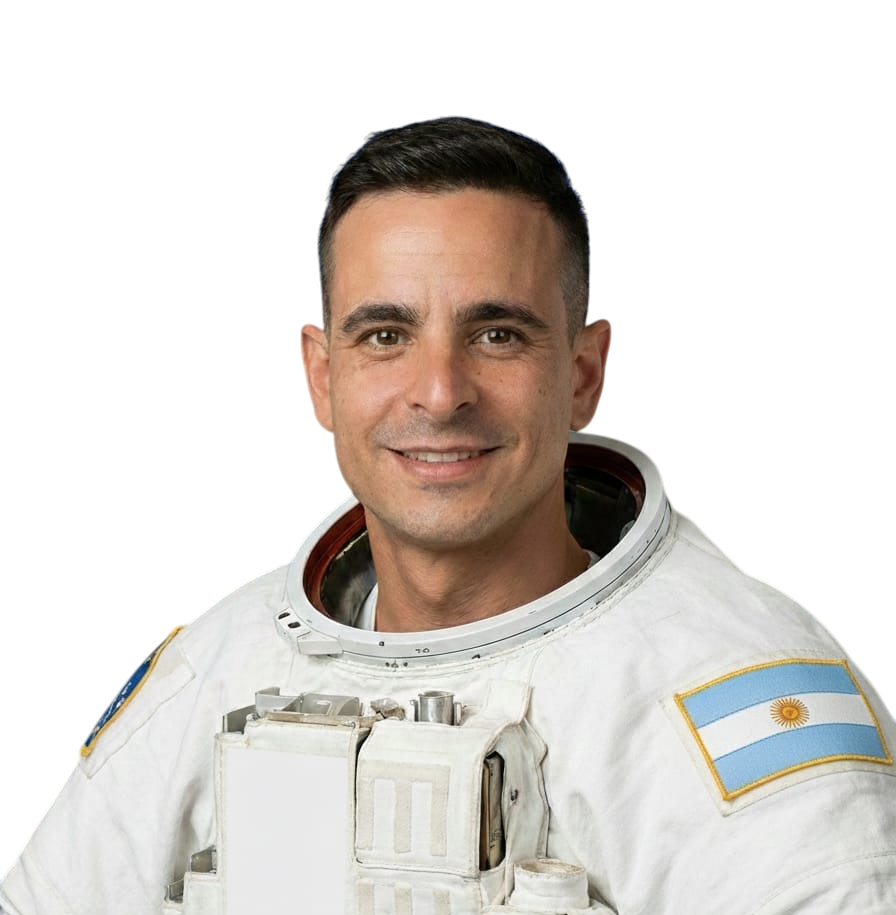
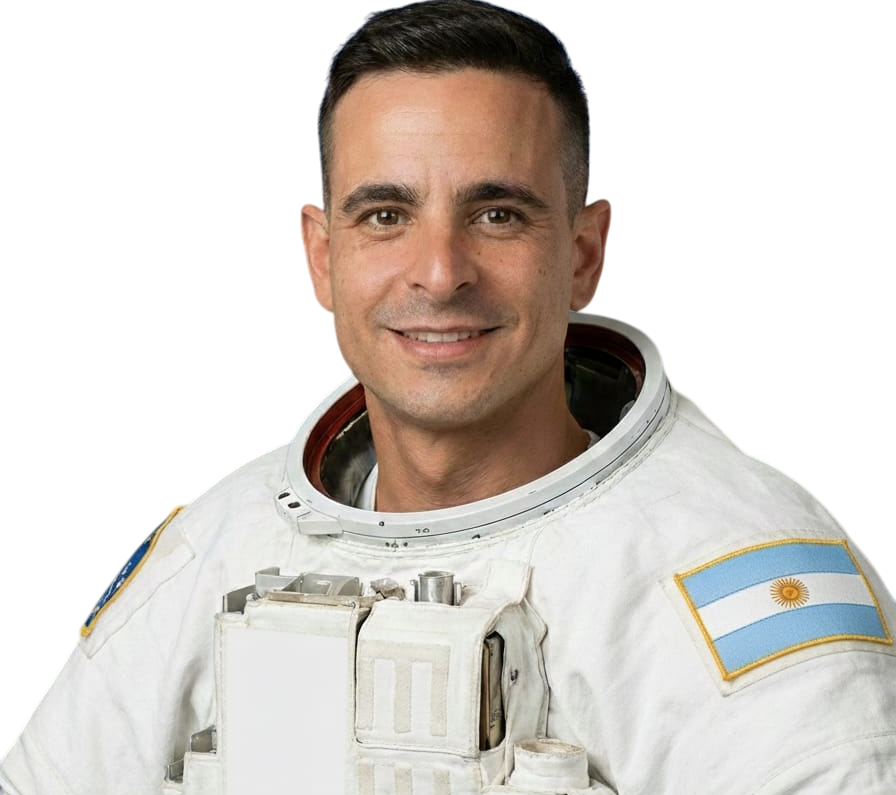
dfdfdsfsdfsf

diff --git a/src/components/Hero/Hero.module.css b/src/components/Hero/Hero.module.css
@@ -13,9 +13,7 @@
   justify-content: center;
   height: auto;
   scroll-margin-top: 100px;
-
 }
-
 
 .content {
   font-family: var(--font-text);
@@ -114,11 +112,12 @@
 }
 
 .heroImg {
+  
   /* position: relative; */
   /* margin-right: 10%; */
   width: 300px;
   z-index: 1;
-  border-radius: 45%;
+  border-radius: 50%;
   animation-name: floating;
   animation-duration: 3s;
   animation-iteration-count: infinite;
